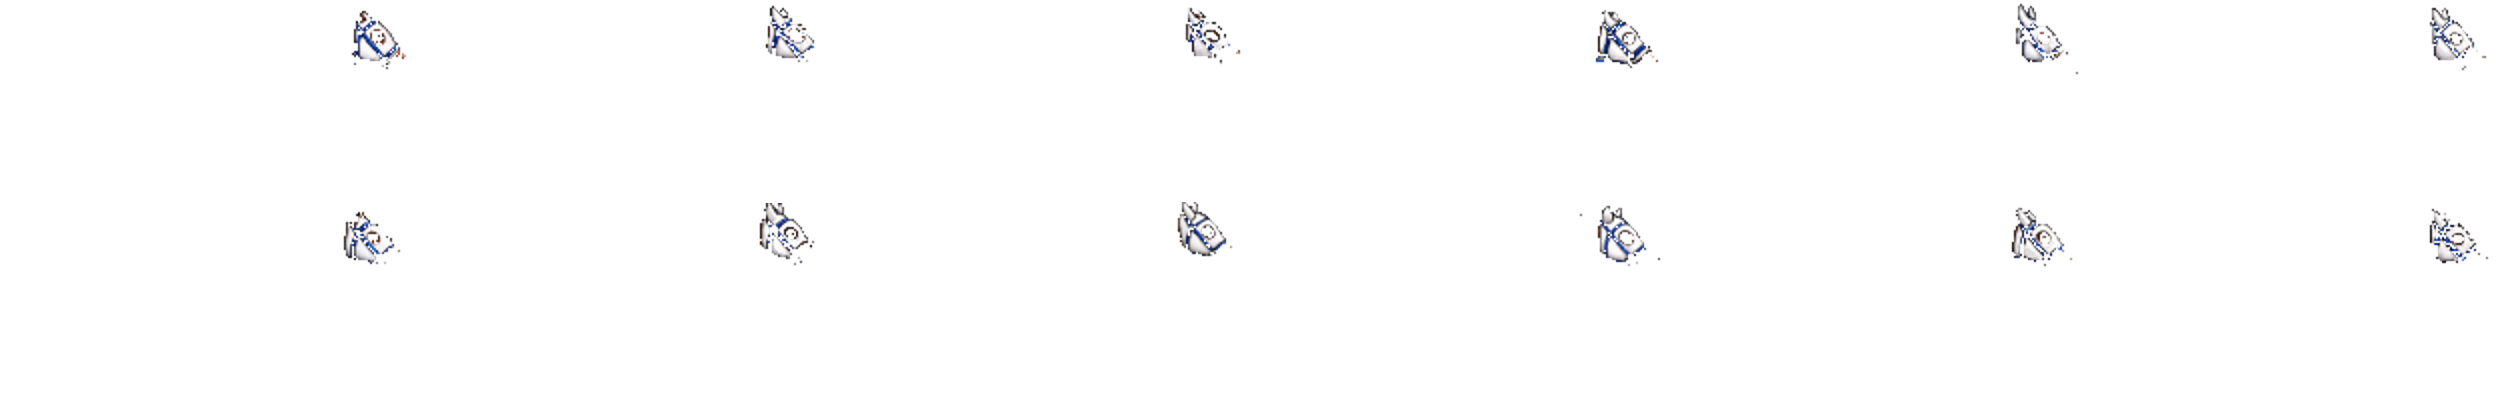
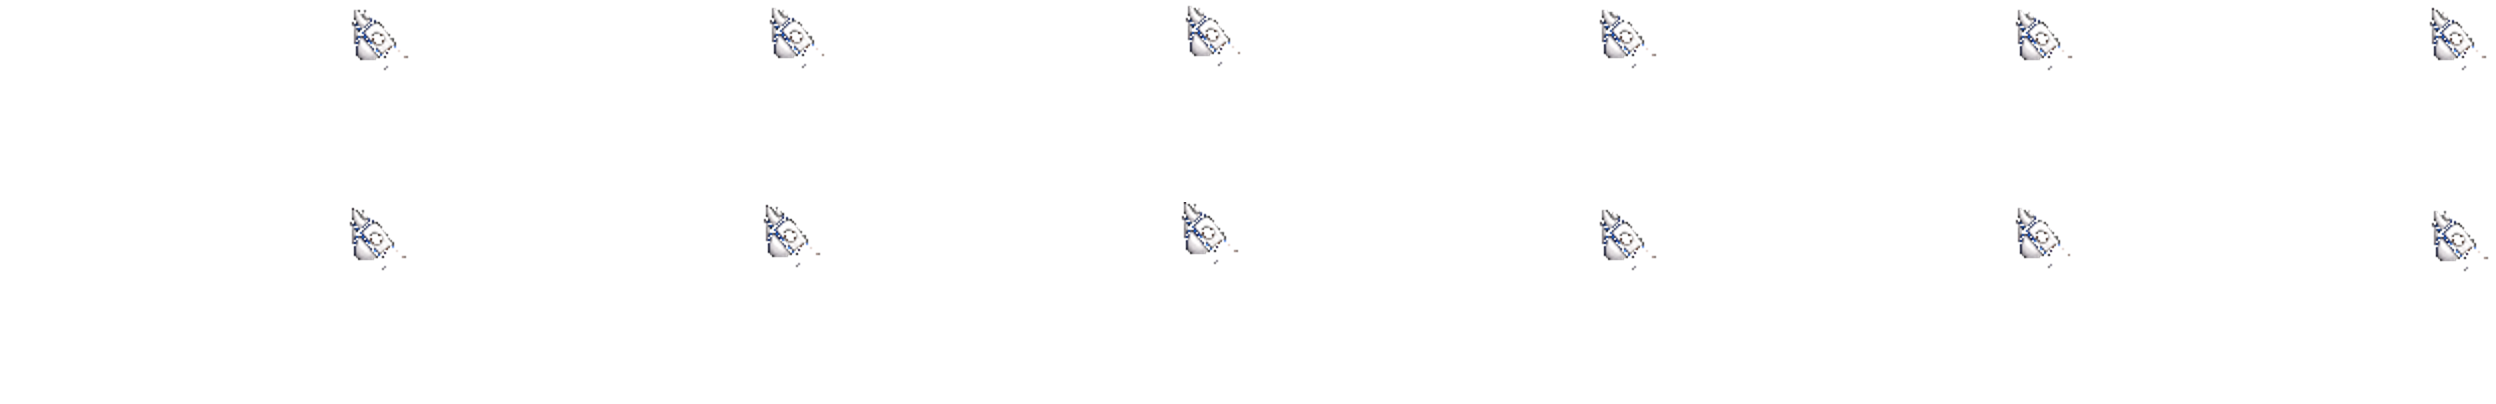
One hood shape on every frame: the template hood rides with the head
SpriteCook drew the hood afresh per frame (ears covered on some, the back edge 30-40 px behind the nose), so it grew down
the neck and back in motion. art/hood_rigid.py moves frame 6's hood with the runner's head and trims it to the outline;
the 416 overlays are rebuilt from it (art/gear416.py). Originals kept locally as hood12*.bak-rigid.png.

diff --git a/mockups/replay_hd2d.html b/mockups/replay_hd2d.html
@@ -743,7 +743,7 @@ let wrapImg = null, wrapMask = null, wrapMeta = { frames: FR, cols: FR };    // 
 const wrapMetaLoaded = WRAPS_OK ? fetch(P("/mock/pixel/tack/wraps12.json?v=" + Date.now())).then(r => r.ok ? r.json() : null).then(j => { if (j && j.frames) wrapMeta = { frames: j.frames, cols: j.cols || j.frames }; }).catch(() => {}) : Promise.resolve();
 let hoodImg = null, hoodMask = null;                                   // the hood overlay and its mask, same sheet layout
 const GEAR = { wraps12: i => wrapImg = i, wraps12_mask: i => wrapMask = i, hood12: i => hoodImg = i, hood12_mask: i => hoodMask = i };
-const wrapLoaded = WRAPS_OK ? Promise.all(Object.keys(GEAR).map(n => new Promise(r => { const i = new Image(); i.onload = () => { GEAR[n](i); r(); }; i.onerror = r; i.src = P(`/mock/pixel/tack/${n}${CS > 1 ? "416" : ""}.png?v=23`); }))) : Promise.resolve();   // the 416 runner's gear: built frame by frame to its grid (art/gear416.py)
+const wrapLoaded = WRAPS_OK ? Promise.all(Object.keys(GEAR).map(n => new Promise(r => { const i = new Image(); i.onload = () => { GEAR[n](i); r(); }; i.onerror = r; i.src = P(`/mock/pixel/tack/${n}${CS > 1 ? "416" : ""}.png?v=24`); }))) : Promise.resolve();   // the 416 runner's gear: built frame by frame to its grid (art/gear416.py)
 // the bridle runs over the hood: those straps are leather, not the driver's silks, so on and just around the hood they go
 // dark before the silks are dyed (the dye repaints every blue pixel, which left the driver's color striped across the mask)
 function leatherStraps(c, mask) {

diff --git a/art/hood_rigid.py b/art/hood_rigid.py
@@ -1,0 +1,60 @@
+"""One hood for every frame of the 208 runner cycle (then art/gear416.py doubles it for the 416 runner).
+
+SpriteCook drew the hood afresh on each frame: the ears are covered on some frames and bare on others, and the back edge
+sits anywhere from 30 to 40 pixels behind the nose, so in motion the hood grew down the neck and shrank back. Here one
+well-drawn frame (TEMPLATE) is the hood: for each frame it is moved by however far the runner's head moved (found by
+matching the head), and trimmed to the runner's outline, so the shape is the same on every frame and rides with the head.
+
+  python art/hood_rigid.py   -> mockups/pixel/tack/hood12.png and hood12_mask.png (the originals kept as *.bak-rigid.png)
+"""
+import os
+import shutil
+
+import numpy as np
+from PIL import Image
+
+TACK = os.path.join(os.path.dirname(os.path.dirname(os.path.abspath(__file__))), "mockups", "pixel", "tack")
+RUN = os.path.join(os.path.dirname(TACK), "fe12_cycle.png")
+FW, N, TEMPLATE, SEARCH = 208, 12, 5, 8               # TEMPLATE: frame 6, a typical hood (ears covered, back edge 30 px)
+HEAD = np.s_[0:45, 150:208]                            # where the head is, in every frame
+
+
+def frame(a, k):
+    return a[:, k * FW:(k + 1) * FW]
+
+
+def roll(a, dy, dx):
+    return np.roll(np.roll(a, dy, 0), dx, 1)
+
+
+def head_shift(run, k):
+    """How far the head in frame k sits from the template frame's head."""
+    a, b = frame(run, TEMPLATE).astype(float), frame(run, k).astype(float)
+    def miss(dy, dx):
+        s = roll(a, dy, dx)
+        both = (s[HEAD][..., 3] > 127) | (b[HEAD][..., 3] > 127)
+        return (((s[HEAD][..., :3] - b[HEAD][..., :3]) ** 2).sum(-1) * both).sum()
+    return min(((dy, dx) for dy in range(-SEARCH, SEARCH + 1) for dx in range(-SEARCH, SEARCH + 1)), key=lambda m: miss(*m))
+
+
+if __name__ == "__main__":
+    for name in ("hood12", "hood12_mask"):
+        if not os.path.exists(os.path.join(TACK, name + ".bak-rigid.png")):
+            shutil.copy(os.path.join(TACK, name + ".png"), os.path.join(TACK, name + ".bak-rigid.png"))
+    run = np.asarray(Image.open(RUN).convert("RGBA"))
+    hood = np.asarray(Image.open(os.path.join(TACK, "hood12.bak-rigid.png")).convert("RGBA"))
+    mask = np.asarray(Image.open(os.path.join(TACK, "hood12_mask.bak-rigid.png")).convert("L"))
+    out_h, out_m = np.zeros_like(hood), np.zeros_like(mask)
+    moves = []
+    for k in range(N):
+        dy, dx = head_shift(run, k)
+        moves.append((dy, dx))
+        on = frame(run, k)[..., 3] > 127                                   # never past the runner's outline
+        h, m = roll(frame(hood, TEMPLATE), dy, dx).copy(), roll(frame(mask, TEMPLATE), dy, dx).copy()
+        h[~on] = 0; m[~on] = 0
+        out_h[:, k * FW:(k + 1) * FW], out_m[:, k * FW:(k + 1) * FW] = h, m
+    Image.fromarray(out_h, "RGBA").save(os.path.join(TACK, "hood12.png"), optimize=True)
+    Image.fromarray(out_m, "L").save(os.path.join(TACK, "hood12_mask.png"), optimize=True)
+    px = [(frame(out_m, k) > 127).sum() for k in range(N)]
+    assert max(px) - min(px) < 0.15 * max(px), f"the hood's size still swings: {px}"
+    print("head moves:", moves, "\nhood pixels per frame:", px)
